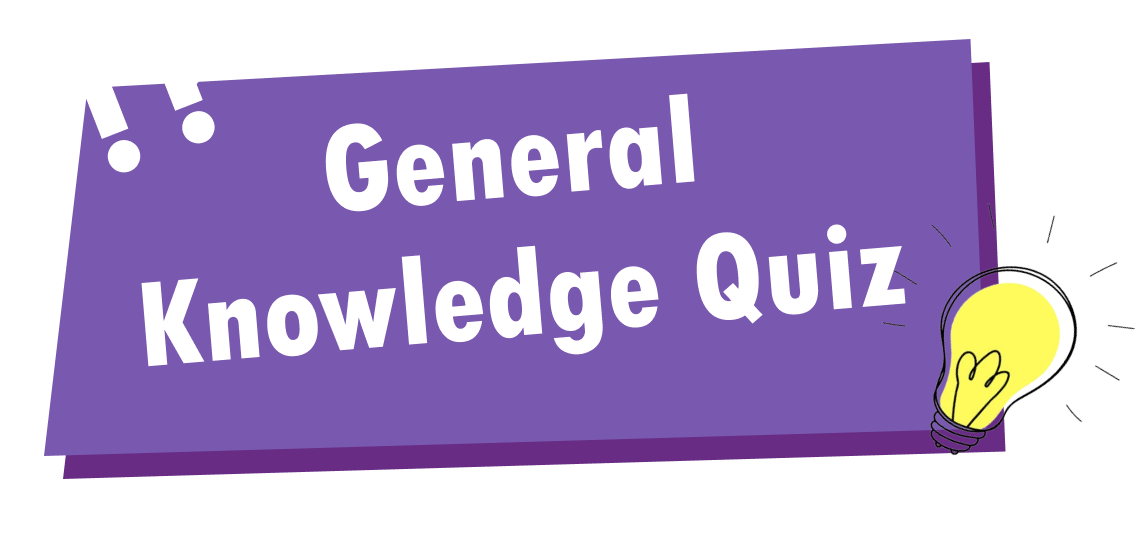
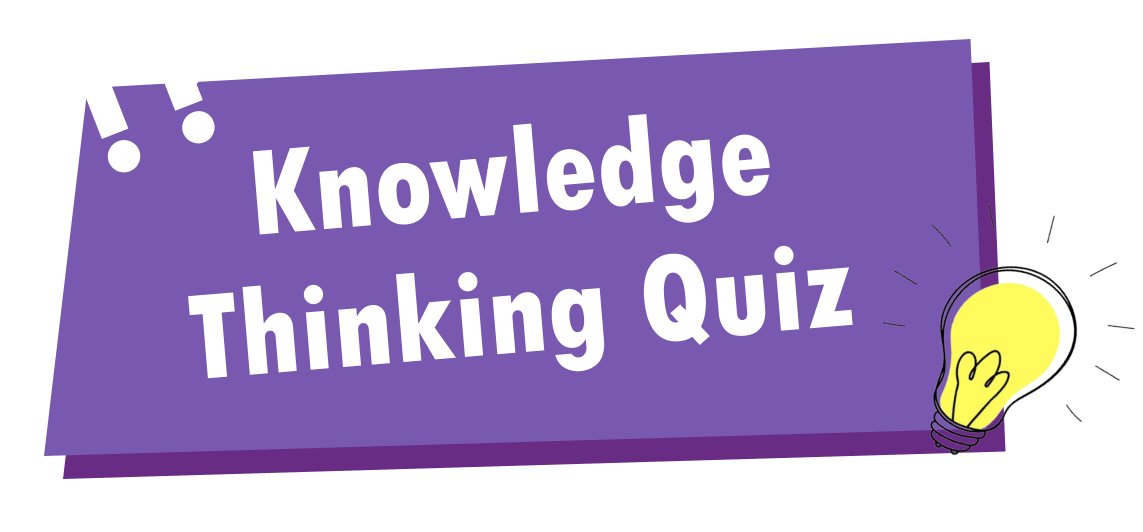
fixed cat and title

diff --git a/src/pages/Score.jsx b/src/pages/Score.jsx
@@ -35,7 +35,7 @@ import { useScore } from "../hooks/useScore";
 const keys = ["Play Again", "Leave"];
 
 function Score() {
-  const { score } = useScore();
+  const { score, setScore, category } = useScore();
 
   const [rightAns, setrightAns] = useState(
     JSON.parse(localStorage.getItem("rightAns"))
@@ -65,7 +65,8 @@ function Score() {
   };
 
   const onPlayAgain = () => {
-    navigate("/quizs/1");
+    setScore(0);
+    navigate(`/playing/${category}`);
   };
 
   useEffect(() => {}, []);
@@ -82,7 +83,7 @@ function Score() {
   }
 
   return (
-    <div className=" gap-4">
+    <div className=" gap-4 ">
       <div className=" w-full  flex flex-col items-center justify-start">
         <br />
         <div className=" absolute flex items-center justify-center ">
@@ -97,7 +98,7 @@ function Score() {
         {/* <h1 className=" text-[2rem] font-bold text-white bg-[#7958AF] px-6">
         Congratulation!
       </h1> */}
-        <img src={congrats} className=" w-[40%]" />
+        <img src={congrats} className=" w-[80%] lg:w-[40%]" />
 
         <div className=" flex w-[30%] h-[30%] items-end justify-center ">
           {score > 2 ? (
@@ -110,28 +111,28 @@ function Score() {
             <img src={stars0} className=" h-full " />
           )}
         </div>
-        <h1 className=" text-[1.5rem] font-bold text-[#7958AF] mt-1">
+        <h1 className=" text-[1rem] lg:text-[1.5rem] font-bold text-[#7958AF] mt-1">
           Your Score
         </h1>
 
         <div className=" absolute z-[-1]   top-[17rem]  flex items-center justify-center">
           {/* this is score bg */}
-          <img src={scoreBg} className=" w-[67rem]" />
+          {/* <img src={scoreBg} className=" w-[30rem] lg:w-[67rem]" /> */}
         </div>
 
         <div className=" relative flex flex-col items-center justify-start">
           <img src={score2} className="  w-[50%]" />
-          <h1 className=" absolute text-[2.9rem] font-bold text-white">
-            {score} out of 10
+          <h1 className=" absolute text-[1.5rem] lg:text-[2.9rem] font-bold text-white">
+            {score} out of 20
           </h1>
         </div>
-        <h1 className=" flex flex-col items-center justify-center  text-[4rem]  h-[5rem]  text-[#7958AF] font-bold">
-          {score}0%
+        <h1 className=" flex flex-col items-center justify-center  text-[2rem] lg:text-[4rem]  h-[5rem]  text-[#7958AF] font-bold">
+          {((score / 20) * 100).toFixed(2)}%
         </h1>
 
         <br />
         {/* button bar */}
-        <div className=" flex  h- w-5/12 lg:w-1/3 gap-3  items-center justify-between ">
+        <div className=" flex   w-1/2 md:w-5/12  lg:w-1/3 gap-3  bg-blue-gray-200 items-center justify-between ">
           {keys.map((key, index) => (
             // <div
             //   key={index}
@@ -162,7 +163,7 @@ function Score() {
             //   <img className=" absolute" src={PurpleImage} />
             //   <h1 className=" z-[1] text-[3rem] font-bold">{key}</h1>
             // </div>
-            <div key={index} className=" w-[16rem] py-1">
+            <div key={index} className=" w-[6rem] lg:w-[16rem] py-1">
               <Button3
                 title={key}
                 onFunction={() => (key == "Leave" ? onLeave() : onPlayAgain())}

diff --git a/src/components/Category.jsx b/src/components/Category.jsx
@@ -25,40 +25,39 @@ function Category() {
   }, []);
 
   return (
-    <div>
-      <div className=" relative flex items-center justify-start  h-screen flex-col ">
-        <div className=" flex flex-col w-11/12 md:w-7/12 lg:w-10/12 items-center justify-center h-[7rem] md:h-[8rem]  lg:h-[15rem]  my-7">
-          {/* <h1 className="  text-[4rem] text-white font-bold ">Category</h1> */}
-          <Image fluid src={categoryTitle} />
-        </div>
+    <div className=" relative flex items-center justify-center  h-screen flex-col">
+      <div className=" flex flex-col w-11/12 md:w-7/12 lg:w-6/12 items-center justify-center h-[7rem] md:h-[8rem]  lg:h-[15rem]  my-7">
+        {/* <h1 className="  text-[4rem] text-white font-bold ">Category</h1> */}
+        <Image fluid src={categoryTitle} className=" h-[" />
+      </div>
 
-        <div className=" flex flex-col items-center justify-center gap-1 w-[14rem] lg:w-[24rem] h-[21rem] lg:h-[35rem] z-10">
-          <Button4
-            onFunction={() => {
-              onSubmit("general");
-            }}
-            title="General"
-          />
+      <div className=" flex flex-col items-center justify-center gap-1 w-[14rem] lg:w-[24rem] h-[21rem] lg:h-[35rem] z-10">
+        <Button4
+          onFunction={() => {
+            onSubmit("general");
+          }}
+          title="General"
+        />
+        <Button4
+          onFunction={() => {
+            onSubmit("iqtest");
+          }}
+          title={"Education"}
+        />
 
-          <Button4
-            onFunction={() => {
-              onSubmit("computer");
-            }}
-            title={"Computer"}
-          />
-          <Button4
-            onFunction={() => {
-              onSubmit("iqtest");
-            }}
-            title={"IQ Test"}
-          />
-          <Button3
-            onFunction={() => {
-              navigate("/");
-            }}
-            title={"Back"}
-          />
-        </div>
+        <Button4
+          onFunction={() => {
+            onSubmit("computer");
+          }}
+          title={"Hardware"}
+        />
+
+        <Button3
+          onFunction={() => {
+            navigate("/");
+          }}
+          title={"Back"}
+        />
       </div>
     </div>
   );

diff --git a/src/pages/Question.jsx b/src/pages/Question.jsx
@@ -32,11 +32,20 @@ import useCountdown from "../hooks/useCountdown";
 import BtnOption from "../components/BtnOption";
 import Image from "react-bootstrap/Image";
 
-function generateUniqueRandomArray() {
+let noOfQuestion = 20;
+function generateUniqueRandomArray(category) {
   const uniqueRandomArray = [];
+  let j = 50;
+  if (category == "general") {
+    j = 116;
+  } else if (category == "computer") {
+    j = 91;
+  } else {
+    j = 42;
+  }
 
-  while (uniqueRandomArray.length < 10) {
-    const randomNumber = Math.floor(Math.random() * 20);
+  while (uniqueRandomArray.length < noOfQuestion) {
+    const randomNumber = Math.floor(Math.random() * j);
 
     if (!uniqueRandomArray.includes(randomNumber)) {
       uniqueRandomArray.push(randomNumber);
@@ -55,7 +64,7 @@ function Question() {
   const [correct, setCorrect] = useState(false);
 
   const [currentId, setCurrentId] = useState(0);
-  const [idArray, setIdArray] = useState(generateUniqueRandomArray());
+  const [idArray, setIdArray] = useState(generateUniqueRandomArray(category));
   // console.log(idArray);
   const [data, setData] = useState();
   const [timeup, setTimeup] = useState(false);
@@ -118,7 +127,7 @@ function Question() {
 
     setRightAns((prev) => [...prev, jsonData[idArray[currentId]].rightAns]);
 
-    if (currentId === 9) {
+    if (currentId === noOfQuestion - 1) {
       // alert("Congratulation! You have completed the test");
       localStorage.setItem(
         "rightAns",
@@ -131,14 +140,16 @@ function Question() {
       navigate("/score");
     }
 
-    if (_selectedAns == "...") {
+    if (_selectedAns === "...") {
       // Use a setTimeout inside the onNext function
       setTimeout(() => {
         setCurrentId((prevId) => prevId + 1);
+        console.log("time up and add id");
         setTimeup(false);
       }, 1000);
     } else {
       setCurrentId((prevId) => prevId + 1);
+      console.log("select option and add i");
       setTimeup(false);
     }
 
@@ -147,7 +158,7 @@ function Question() {
 
   useEffect(() => {
     console.log("currentid change.");
-  }, [currentId]);
+  }, []);
 
   /* ----------------------------- handle back key ---------------------------- */
   useEffect(() => {

diff --git a/src/components/About.jsx b/src/components/About.jsx
@@ -14,8 +14,11 @@ function About({ setModal }) {
         <div className=" w-full flex items-center justify-center relative">
           <img src={aboutBg} className=" w-full " />
           <div className=" w-full h-full p-[6rem] absolute items-center justify-center">
-            <h1 className=" text-[2rem] font-bold text-[#7958AF]">
-              This is about text.{" "}
+            <h1 className=" text-[1.4rem] font-bold text-[#7958AF]">
+              Welcome to our quiz game! Explore categories like General
+              Knowledge, Critical Thinking, and Hardware. Enjoy a quick and
+              engaging quiz experience. Gear up, the challenge awaits! Are you
+              ready to become the ultimate quiz champion? Let the games begin!
             </h1>
           </div>
         </div>

diff --git a/src/pages/Home.jsx b/src/pages/Home.jsx
@@ -33,7 +33,7 @@ function Home() {
     <div className=" flex flex-col items-center justify-center  h-screen gap-6 ">
       {showAboutModal && <About setModal={setShowAboutModal} />}
 
-      <img src={komiHome} className=" fixed bottom-0 right-0" />
+      {/* <img src={komiHome} className=" fixed bottom-0 right-0" /> */}
       {/* <div className=" flex items-center justify-center gap-2 right-4">
         {" "}
         <img src={bulb} className=" w-[16rem] -rotate-[35deg]" />

diff --git a/src/components/Button3.jsx b/src/components/Button3.jsx
@@ -21,7 +21,7 @@ const Button3 = ({ title, onFunction, name }) => {
       <div className=" px-10 z-10 flex w-full justify-between">
         <h1 className=" font-bold z-10 text-white text-[2rem]">{name}</h1>
         <div className=" flex w-full items-center justify-center">
-          <h1 className=" font-bold z-10 text-white text-[1.5rem]">{title}</h1>
+          <h1 className=" font-bold z-10 text-white text-[2rem]">{title}</h1>
         </div>
       </div>
     </div>

diff --git a/src/components/CounterLarge.jsx b/src/components/CounterLarge.jsx
@@ -31,7 +31,7 @@ function CounterLarge({ setComplete3s }) {
           <h1 className=" text-[22rem]">{count - 1}</h1>
         </>
       )}
-      <img src={komiMoti} className=" absolute bottom-0 left-5 h-[11rem]" />
+      {/* <img src={komiMoti} className=" absolute bottom-0 left-5 h-[11rem]" /> */}
     </div>
   );
 }

diff --git a/src/main.jsx b/src/main.jsx
@@ -3,8 +3,4 @@ import ReactDOM from "react-dom/client";
 import "./index.css";
 import Layout from "./layout.jsx";
 
-ReactDOM.createRoot(document.getElementById("root")).render(
-  <React.StrictMode>
-    <Layout />
-  </React.StrictMode>
-);
+ReactDOM.createRoot(document.getElementById("root")).render(<Layout />);

diff --git a/src/pages/Playing.jsx b/src/pages/Playing.jsx
@@ -37,7 +37,7 @@ function Playing() {
     startingCountDown();
   };
   const onBack = () => {
-    console.log("back");
+    window.location.href = "/";
   };
 
   const startingCountDown = () => {
